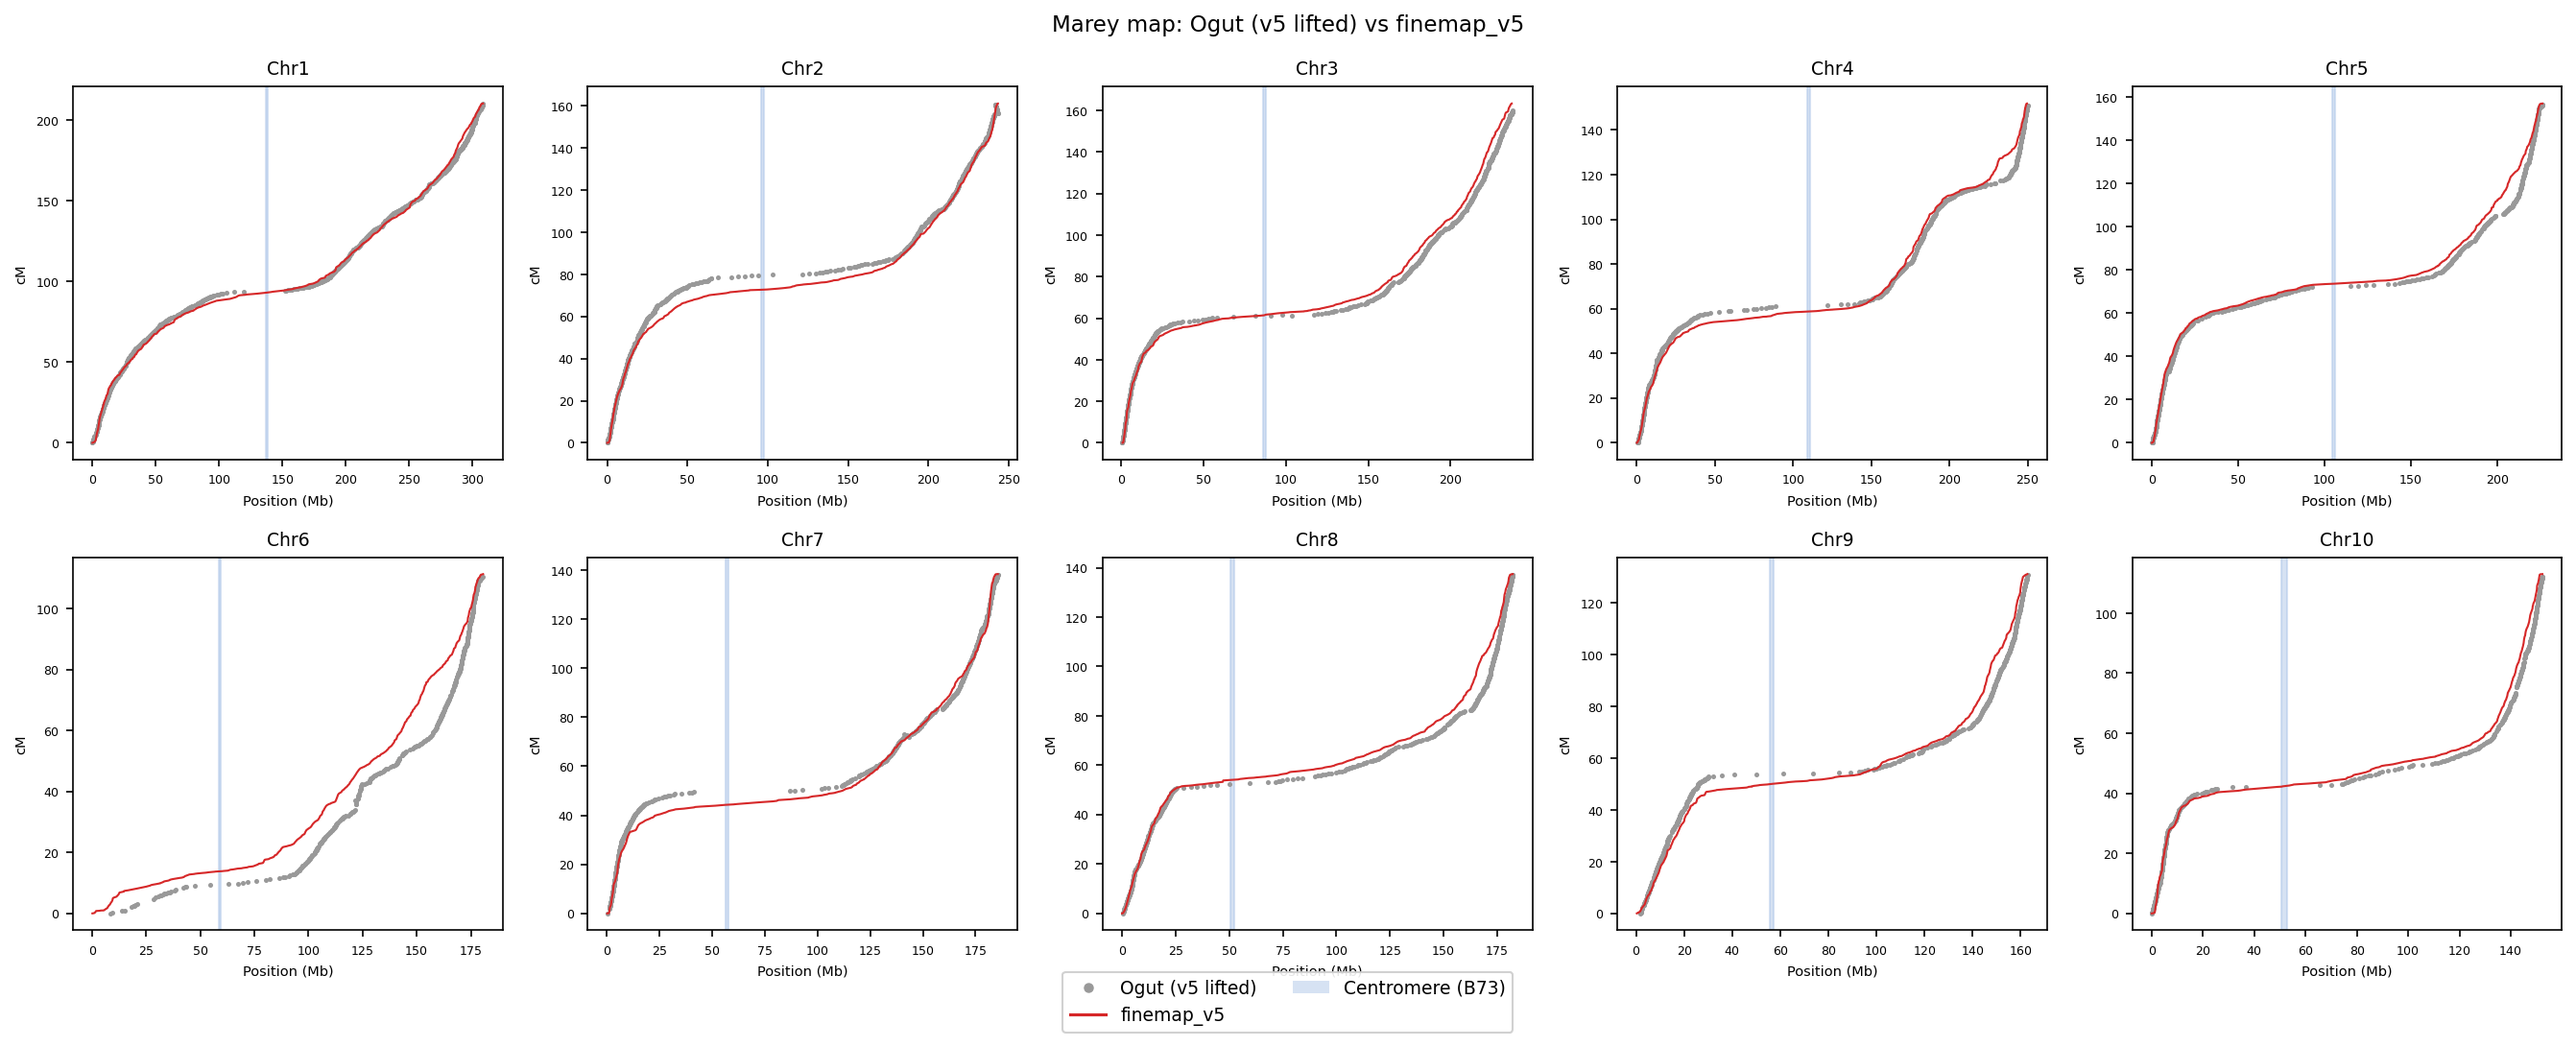
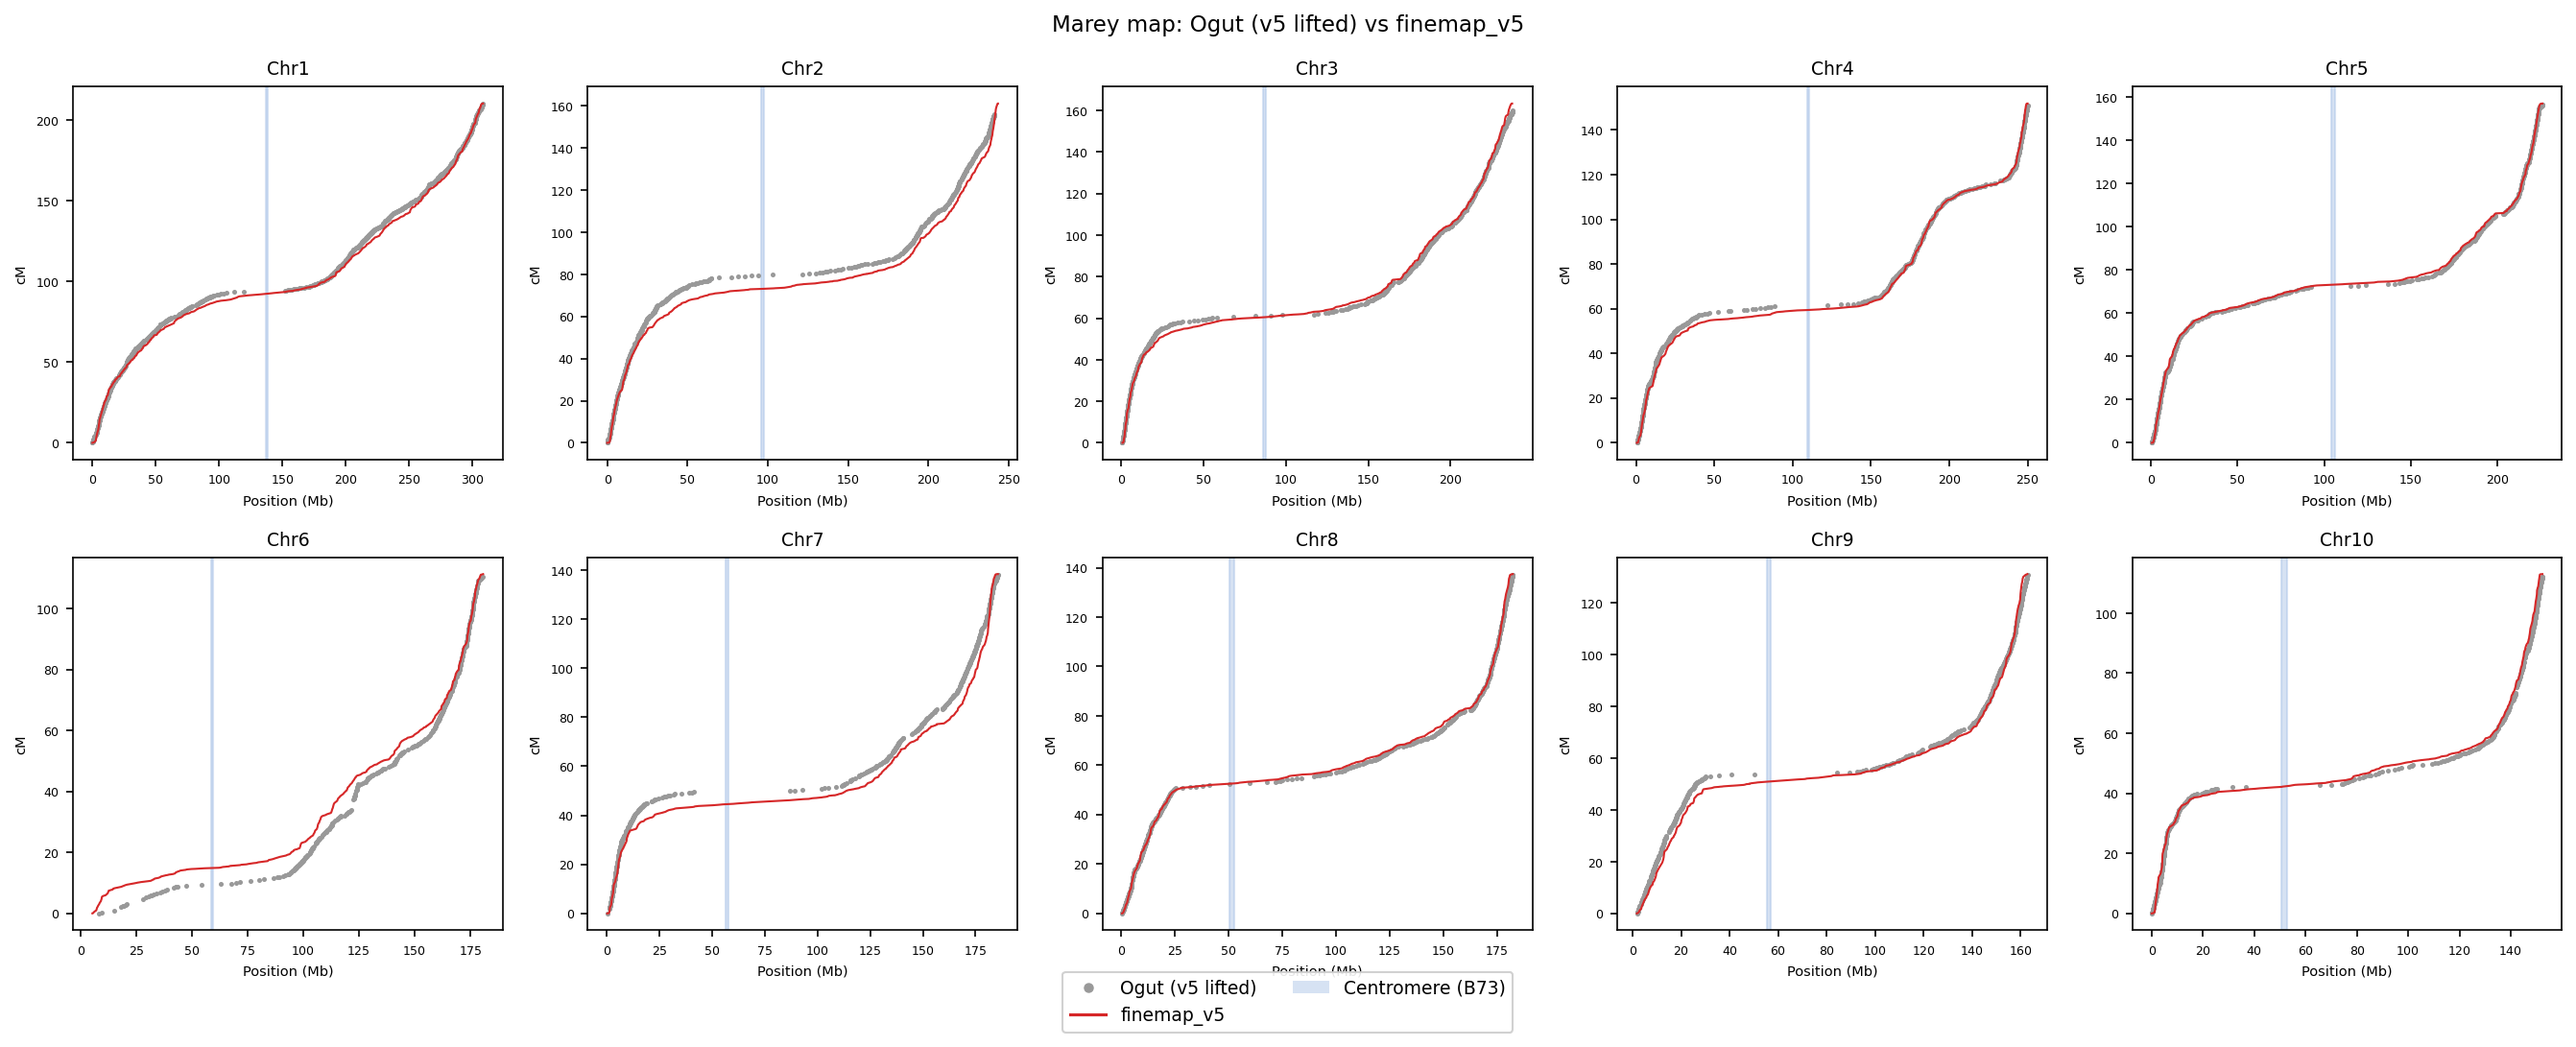
Verify lifted Ogut markers by sequence and drop unsupported ones
Add scripts/verify_ogut_v5.py, which searches for each marker's AGPv2
flanking sequence at its lifted v5 position. 242 of 6,136 markers
(including 34 of the 35 out of cM order) lack support and are dropped
from data/ogut_v5.csv. Regenerate the Marey plot, document the check
and the v2 genome download, and record the results in review.md.

diff --git a/scripts/verify_ogut_v5.py b/scripts/verify_ogut_v5.py
@@ -1,0 +1,97 @@
+#!/usr/bin/env python3
+"""Check lifted Ogut marker positions against the AGPv2 and v5 genome sequence.
+
+For each marker in data/ogut_v5.csv, the AGPv2 sequence centred on the marker
+(+-FLANK bp) is searched for within +-WINDOW bp of its v5 position on both
+strands. A marker is supported when the best match has at most MAX_MISMATCH
+mismatches and lies exactly at the stated v5 position. With --filter,
+unsupported markers are dropped and cM_norm is recomputed.
+
+Requires samtools and bgzipped, faidx-indexed genomes:
+  data/B73_RefGen_v2.fa.gz  (https://download.maizegdb.org/B73_RefGen_v2/)
+  data/Zm-B73-REFERENCE-NAM-5.0.fa.gz
+"""
+
+import argparse
+import subprocess
+from pathlib import Path
+
+import numpy as np
+import pandas as pd
+
+ROOT = Path(__file__).parent.parent
+OGUT_V2 = ROOT / "data/ogut_fifthcM_map_agpv2.csv"
+OGUT_V5 = ROOT / "data/ogut_v5.csv"
+V2_FASTA = ROOT / "data/B73_RefGen_v2.fa.gz"
+V5_FASTA = ROOT / "data/Zm-B73-REFERENCE-NAM-5.0.fa.gz"
+
+FLANK = 50
+WINDOW = 300
+MAX_MISMATCH = 5
+RC = str.maketrans("ACGTN", "TGCAN")
+
+
+def parse_args():
+    parser = argparse.ArgumentParser(
+        description="Verify lifted Ogut v5 positions by sequence and optionally drop unsupported markers."
+    )
+    parser.add_argument("--filter", action="store_true",
+                        help="Drop unsupported markers and overwrite data/ogut_v5.csv.")
+    parser.add_argument("--report", type=Path,
+                        help="Optional TSV with per-marker mismatches, offset and strand.")
+    return parser.parse_args()
+
+
+def fetch(fasta, regions, chunk=2000):
+    seqs = []
+    for i in range(0, len(regions), chunk):
+        out = subprocess.run(["samtools", "faidx", str(fasta)] + regions[i:i + chunk],
+                             capture_output=True, text=True, check=True).stdout
+        for rec in out.split(">")[1:]:
+            seqs.append("".join(rec.splitlines()[1:]).upper())
+    return seqs
+
+
+def best_match(query, target):
+    """Return (mismatches, offset of the query centre from the window centre, strand)."""
+    length = len(query)
+    if len(target) < length:
+        return length, None, None
+    windows = np.lib.stride_tricks.sliding_window_view(np.frombuffer(target.encode(), "S1"), length)
+    result = (length + 1, None, None)
+    for strand, seq in (("+", query), ("-", query.translate(RC)[::-1])):
+        mismatches = (windows != np.frombuffer(seq.encode(), "S1")).sum(axis=1)
+        i = int(mismatches.argmin())
+        if mismatches[i] < result[0]:
+            result = (int(mismatches[i]), i + FLANK - WINDOW, strand)
+    return result
+
+
+def main():
+    args = parse_args()
+    ogut = pd.read_csv(OGUT_V5)
+    v2 = pd.read_csv(OGUT_V2)[["SNP_newID", "position"]]
+    markers = ogut.merge(v2, on="SNP_newID", how="left")
+    num = markers["chr"].str.replace("Chr", "")
+
+    queries = fetch(V2_FASTA, [f"Chr{c}:{p - FLANK}-{p + FLANK}" for c, p in zip(num, markers["position"])])
+    targets = fetch(V5_FASTA, [f"chr{c}:{max(1, p - WINDOW)}-{p + WINDOW}" for c, p in zip(num, markers["pos_v5"])])
+    matches = [best_match(q, t) for q, t in zip(queries, targets)]
+    markers["mismatches"], markers["offset"], markers["strand"] = zip(*matches)
+    markers["supported"] = (markers["mismatches"] <= MAX_MISMATCH) & (markers["offset"] == 0)
+
+    n_bad = (~markers["supported"]).sum()
+    print(f"{markers['supported'].sum()} of {len(markers)} markers supported by sequence; {n_bad} unsupported")
+    if args.report:
+        markers.to_csv(args.report, sep="\t", index=False)
+        print(f"Wrote {args.report}")
+
+    if args.filter:
+        kept = markers.loc[markers["supported"], ["chr", "pos_v5", "SNP_newID", "cM"]].copy()
+        kept["cM_norm"] = kept.groupby("chr")["cM"].transform(lambda x: x - x.min())
+        kept.to_csv(OGUT_V5, index=False)
+        print(f"Wrote {len(kept)} markers to {OGUT_V5}")
+
+
+if __name__ == "__main__":
+    main()

diff --git a/review.md b/review.md
@@ -11,7 +11,7 @@ The old `data/v2v5.chain` actually converted v5 → AGPv2, so the AGPv2 crossove
 ## Documentation / reproducibility
 
 - **The README's Step 3 command doesn't reproduce `jri_v5.bed`.** It concatenates the Samayoa `_v5.bed` files, which have 4 columns and no ID, but `jri_v5.bed` has 5 columns with `LRv4_`/`TEOv4_` IDs. The script or command that assigned those IDs is not documented. For this rebuild, the v4 rows were kept verbatim from the previous `jri_v5.bed`. A fresh CrossMap lift reproduced their coordinates exactly (263,858 of 263,858).
-- **The `finemap` conda env lacks `openpyxl`**, even though `environment.yml` lists it. Step 1 (`scripts/hmm_co_pipeline.py`) was run with base Anaconda Python instead. Rebuild or update the env.
+- **Resolved: the `finemap` conda env was missing `openpyxl`**, even though `environment.yml` listed it. openpyxl 3.1.5 has now been installed into the env.
 - **Three numbers in the PI writeups could not be reproduced, even from the old files:**
   - PI_VS_HOTSPOT_DISTANCE "3.1% of cM from intervals <100 bp"
   - PI_VS_HOTSPOT_DISTANCE masked/unmasked ρ "−0.755 / 1.000"
@@ -24,8 +24,11 @@ The old `data/v2v5.chain` actually converted v5 → AGPv2, so the AGPv2 crossove
 - **`data/ogut_v5.csv` and the independent `ogutweird/` hapmaps differ slightly.** `ogut_v5.csv` comes from a direct AnchorWave v2 → v5 lift; `ogutweird/` was built via v2 → v4 → v5.
   - **Agreement:** 5,683 markers are shared. Of these, 59% have identical positions, 98% are within 10 kb and 99.5% within 100 kb.
   - **Unshared markers:** 745 markers appear only in the hapmap and 453 only in `ogut_v5.csv`.
-  - **Can't tell which is closer:** every disagreeing marker falls between the same flanking agreed markers under both liftovers. A base-level check would need the AGPv2 reference.
-- **35 markers in `ogut_v5.csv` are out of cM order along v5.** The hapmap is fully ordered, so they were probably removed there. Consider filtering them.
+  - **Resolved: `ogut_v5.csv` is the correct one.** The check used the AGPv2 reference (`data/B73_RefGen_v2.fa.gz`, MaizeGDB, not tracked). For each marker, the 101 bp around its v2 position was searched for within ±300 bp of each candidate v5 position, on both strands.
+    - **Across all 5,683 shared markers:** the v2 sequence sits exactly at the `ogut_v5.csv` position for 97.3%, and at the ogutweird position for 58.7%.
+    - **Where the two disagree (2,305 markers):** `ogut_v5.csv` alone is exact for 2,196, ogutweird alone for 5, both for 11 and neither for 93. The median mismatch at ogutweird's positions is 59 of 101 bp, i.e. no match.
+    - **Conclusion:** the v2 → v4 → v5 route used for ogutweird misplaces about 40% of markers by bp to kb.
+- **242 of 6,136 markers in `ogut_v5.csv` (3.9%) lack sequence support at their position.** In 38 of these, the sequence turns up nearby but shifted; the rest have no match within ±300 bp. This includes 34 of the 35 markers that are out of cM order along v5, so those are lift-over errors. **Resolved:** these markers are now dropped with `scripts/verify_ogut_v5.py --filter`, leaving 5,894 markers, all in cM order.
 - **The corrected map fits the Ogut Marey curve worse on chr1, chr2 and chr7** (RMSE 2.6→2.8, 3.4→5.1 and 3.0→5.5 cM), though it fits better on the other seven. This is worth a look for local problems, e.g. rearrangements between AGPv2 and v5.
 
 ## Lift-over quality

diff --git a/README.md b/README.md
@@ -64,7 +64,7 @@ Raw Samayoa interval files (columns: `taxon`, `chr`, `start`, `end`):
 
 `data/ogut_fifthcM_map_agpv2.csv` — fifth-cM marker map in AGPv2 coordinates, used to set chromosome-scale genetic lengths for normalization.
 
-`data/ogut_v5.csv` — Ogut markers lifted to B73 v5 coordinates via CrossMap (`data/v2v5.chain`). Columns: `chr`, `pos_v5`, `SNP_newID`, `cM`, `cM_norm`. Generated by `scripts/plot_marey_comparison.py`.
+`data/ogut_v5.csv` — Ogut markers lifted to B73 v5 coordinates via CrossMap (`data/v2v5.chain`). Columns: `chr`, `pos_v5`, `SNP_newID`, `cM`, `cM_norm`. Generated by `scripts/plot_marey_comparison.py --regenerate-ogut-v5`, then filtered with `scripts/verify_ogut_v5.py --filter`. The filter keeps only markers whose AGPv2 sequence (±50 bp) is found exactly at the lifted v5 position (≤5 mismatches, either strand). This needs `data/B73_RefGen_v2.fa.gz` from MaizeGDB (https://download.maizegdb.org/B73_RefGen_v2/), bgzipped and indexed with `samtools faidx`. 5,894 of 6,136 lifted markers pass.
 
 Ogut F et al. 2015. *Joint-multiple family linkage analysis predicts within-family variation better than single-family analysis of the maize nested association mapping population*. Heredity.
 

diff --git a/CHANGELOG.md b/CHANGELOG.md
@@ -15,9 +15,12 @@ direction. All maps and downstream analyses are rebuilt; the v4 → v5 lift-over
 - Rebuild `data/finemap_v5.bed` (193,790 segments), `data/hapmap/`,
   `data/finemap_hierarchical_v5.bed`, and the hotspot BEDs (918 at 30×, 757 at
   1 kb/20×).
-- Regenerate `data/ogut_v5.csv` (5,837 → 6,136 markers); it now agrees with an
-  independent v2 → v4 → v5 lift of the Ogut map to within 10 kb for 98% of
-  shared markers. `scripts/plot_marey_comparison.py` writes `Chr`-prefixed
+- Regenerate `data/ogut_v5.csv` and add `scripts/verify_ogut_v5.py`, which
+  checks each lifted marker against the AGPv2 and v5 sequence. Markers without
+  sequence support at their v5 position are dropped (6,136 lifted → 5,894 kept,
+  including 34 of the 35 that were out of cM order). The sequence check also
+  shows that an independent v2 → v4 → v5 lift of the Ogut map misplaces about
+  40% of markers. `scripts/plot_marey_comparison.py` writes `Chr`-prefixed
   input for the new chain.
 - Rerun the recombination, hotspot, π and gene-coverage analyses and update
   their numbers in the README and PI_*.md writeups. Correlations of π with
